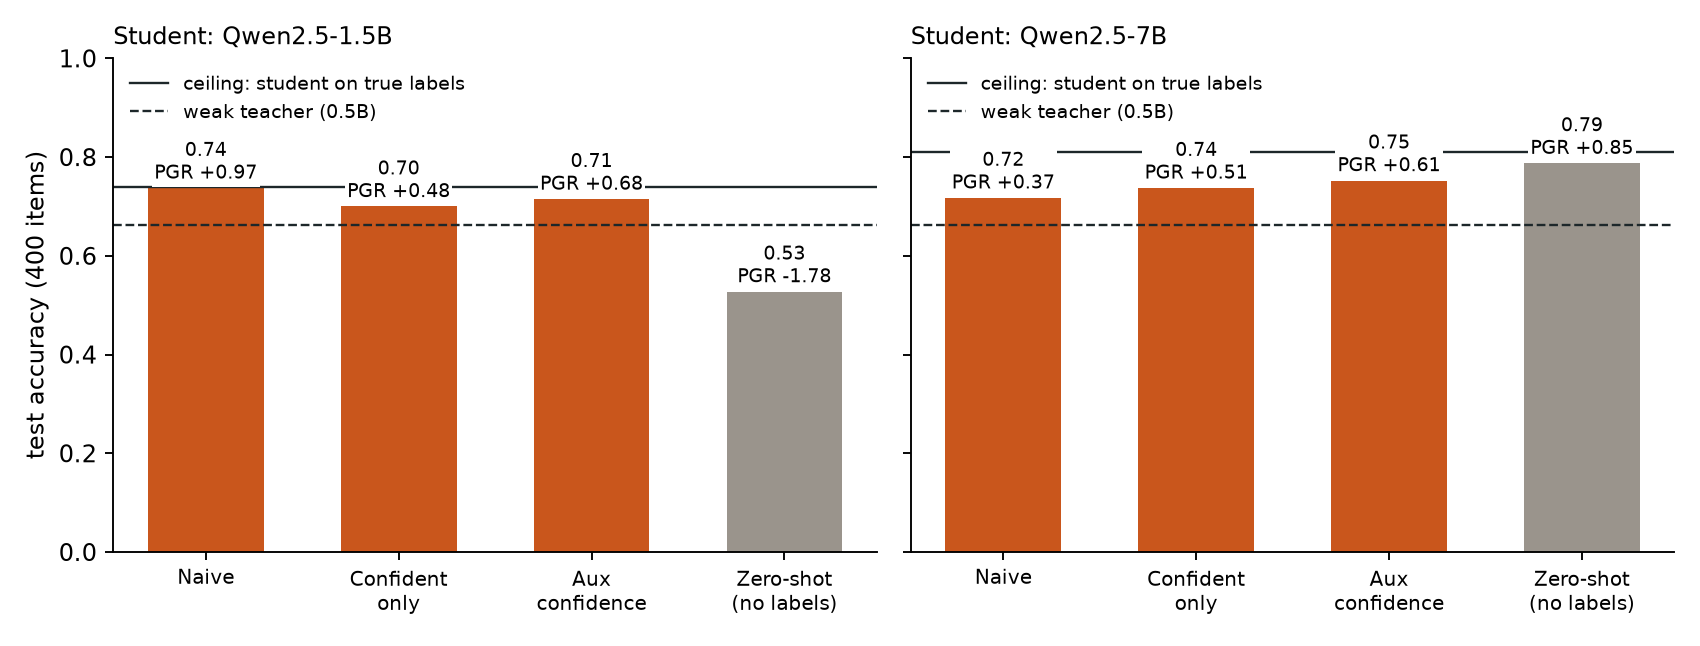
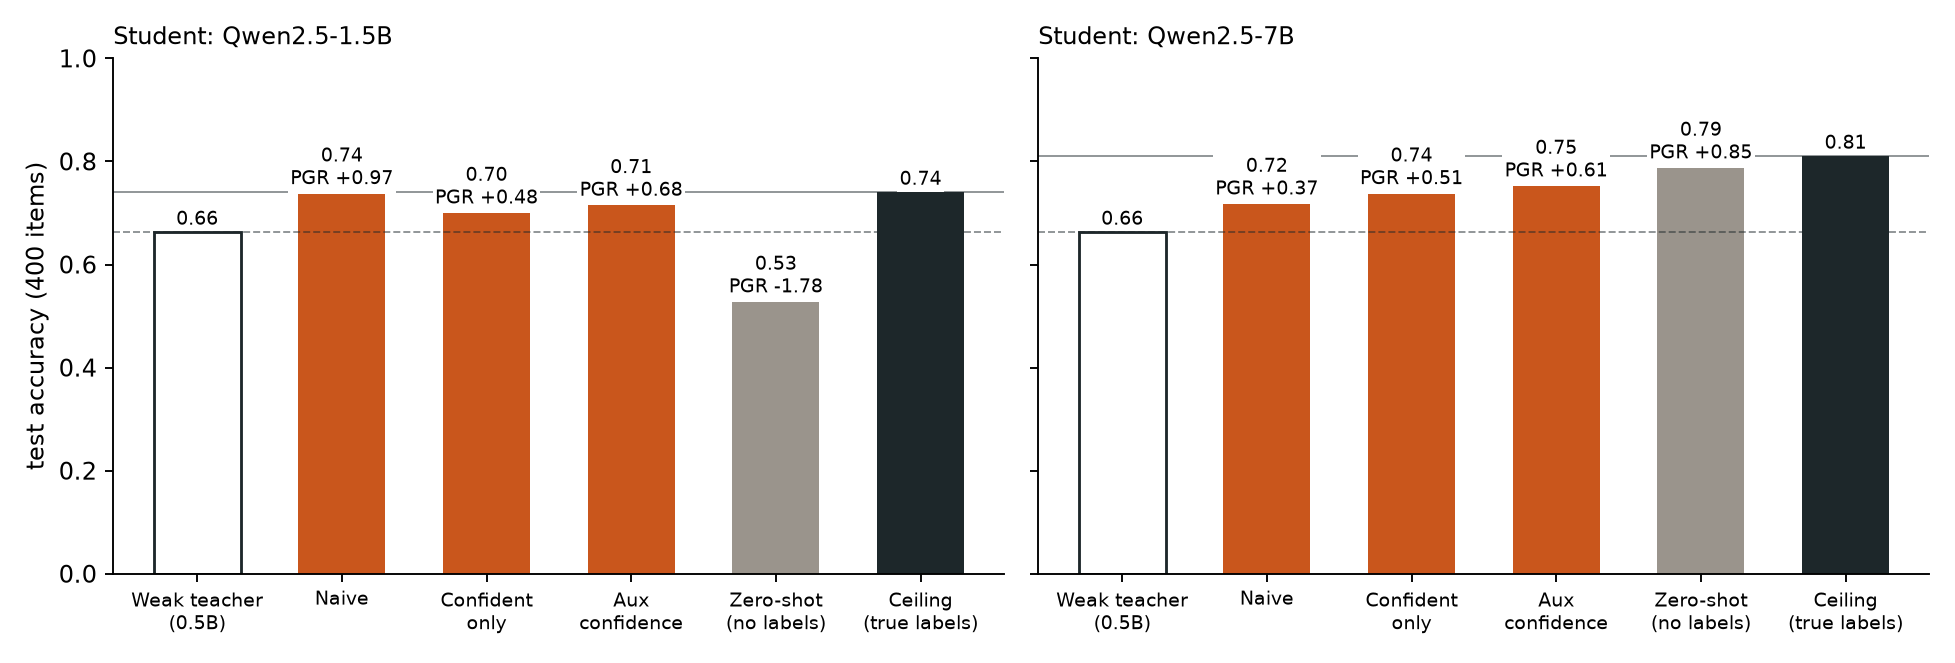
Scalable oversight 101: Figure 2 shows the weak teacher and the ceiling as labelled bars

diff --git a/experiments/scalable-oversight-101/report/index.html b/experiments/scalable-oversight-101/report/index.html
@@ -245,8 +245,8 @@
   <h3 id="w2s" data-short="Weak-to-strong">4.1 A 7B student beats its 0.5B teacher, but its own zero-shot answer beats both</h3>
   <p>The teacher’s labels on student_train are 67.5% right, and the teacher scores 66.2% on test. Every way of training the 7B student on those labels ends above the teacher (Figure 2, right; Table 3): trusting all labels recovers 37% of the gap, keeping only the half the teacher is surest about 51%, and Burns et al.’s auxiliary confidence loss, which also lets the student trust its own hardened predictions, 61%. The order matches the 2023 paper. All three intervals are clear of 0, so criterion 1 is met.</p>
   <figure class="plot">
-    <img src="figures/w2s.png" alt="Two bar charts of test accuracy. Left, student Qwen2.5-1.5B: ceiling 0.74, weak teacher 0.66; naive 0.74, confident 0.70, auxiliary confidence 0.71, zero-shot 0.53. Right, student Qwen2.5-7B: ceiling 0.81, weak teacher 0.66; naive 0.72, confident 0.74, auxiliary confidence 0.75, zero-shot 0.79." width="1700" height="646" loading="lazy">
-    <figcaption><span class="label">Figure 2.</span> Test accuracy (400 items) of each way of learning from the 0.5B teacher’s labels, for a 1.5B and a 7B student, with the gap recovered above each bar. Solid line: the student trained on true labels; dashed: the teacher. Grey: zero-shot, which uses no labels. Drawn by <a href="../make_figures.py">make_figures.py</a> from <a href="../results/w2s.json">results/w2s.json</a>.</figcaption>
+    <img src="figures/w2s.png" alt="Two bar charts of test accuracy, each from the weak teacher to the ceiling. Left, student Qwen2.5-1.5B: weak teacher 0.66; naive 0.74, confident only 0.70, auxiliary confidence 0.71, zero-shot 0.53; ceiling 0.74. Right, student Qwen2.5-7B: weak teacher 0.66; naive 0.72, confident only 0.74, auxiliary confidence 0.75, zero-shot 0.79; ceiling 0.81." width="1955" height="663" loading="lazy">
+    <figcaption><span class="label">Figure 2.</span> Test accuracy (400 items) for a 1.5B and a 7B student, from the weak 0.5B teacher (white bar) through each way of learning from its labels (orange, with the gap recovered above each) and the student with no labels at all (grey, zero-shot) to the ceiling, the student trained on true labels (black). The dashed and solid lines repeat the teacher and the ceiling across each panel. Drawn by <a href="../make_figures.py">make_figures.py</a> from <a href="../results/w2s.json">results/w2s.json</a>.</figcaption>
   </figure>
   <div class="table-wrap">
     <table>

diff --git a/experiments/scalable-oversight-101/make_figures.py b/experiments/scalable-oversight-101/make_figures.py
@@ -28,26 +28,33 @@ EMBER, GREY, INK, SOFT = "#C9561C", "#9A948C", "#1d272a", "#586468"
 
 def w2s():
     data = json.loads((RESULTS / "w2s.json").read_text())
-    fig, axes = plt.subplots(1, 2, figsize=(10, 3.8), sharey=True)
+    fig, axes = plt.subplots(1, 2, figsize=(11.5, 3.9), sharey=True)
     names = ["naive", "confident", "aux", "zero-shot"]
-    labels = ["Naive", "Confident\nonly", "Aux\nconfidence", "Zero-shot\n(no labels)"]
+    labels = [
+        "Weak teacher\n(0.5B)",
+        "Naive",
+        "Confident\nonly",
+        "Aux\nconfidence",
+        "Zero-shot\n(no labels)",
+        "Ceiling\n(true labels)",
+    ]
+    teacher = data["teacher_test_acc"]
     for ax, student in zip(axes, ("1.5b", "7b"), strict=True):
         s = data["students"][student]
-        accs = [s["methods"][m]["test_acc"] for m in names]
-        print(
-            f"w2s {student}: ceiling {s['ceiling_test_acc']:.3f}, teacher {data['teacher_test_acc']:.3f},",
-            dict(zip(names, accs, strict=True)),
-        )
-        ax.bar(range(len(names)), accs, color=[EMBER if m != "zero-shot" else GREY for m in names], width=0.6)
-        for i, (m, a) in enumerate(zip(names, accs, strict=True)):
-            ax.text(i, a + 0.006, f"{a:.2f}\nPGR {s['methods'][m]['pgr']:+.2f}", ha="center", va="bottom", fontsize=8,
+        accs = [teacher, *[s["methods"][m]["test_acc"] for m in names], s["ceiling_test_acc"]]
+        print(f"w2s {student}: teacher {teacher:.3f}, ceiling {s['ceiling_test_acc']:.3f},",
+              dict(zip(names, accs[1:-1], strict=True)))  # fmt: skip
+        faces = ["white", EMBER, EMBER, EMBER, GREY, INK]
+        ax.bar(range(len(accs)), accs, color=faces, edgecolor=INK, linewidth=[1.2, 0, 0, 0, 0, 0], width=0.6)
+        for i, a in enumerate(accs):
+            note = f"\nPGR {s['methods'][names[i - 1]]['pgr']:+.2f}" if 0 < i < len(accs) - 1 else ""
+            ax.text(i, a + 0.006, f"{a:.2f}{note}", ha="center", va="bottom", fontsize=8,
                     bbox={"facecolor": "white", "edgecolor": "none", "pad": 1}, zorder=4)  # fmt: skip
-        ax.axhline(s["ceiling_test_acc"], color=INK, linewidth=1, label="ceiling: student on true labels")
-        ax.axhline(data["teacher_test_acc"], color=INK, linestyle="--", linewidth=1, label="weak teacher (0.5B)")
-        ax.set_xticks(range(len(names)), labels, fontsize=8.5)
+        ax.axhline(s["ceiling_test_acc"], color=INK, linewidth=0.8, alpha=0.5)
+        ax.axhline(teacher, color=INK, linestyle="--", linewidth=0.8, alpha=0.5)
+        ax.set_xticks(range(len(accs)), labels, fontsize=8)
         ax.set_title(f"Student: Qwen2.5-{student.upper()}", loc="left", fontsize=10)
         ax.set_ylim(0, 1.0)
-        ax.legend(loc="upper left", fontsize=8, frameon=False)
         ax.spines[["top", "right"]].set_visible(False)
     axes[0].set_ylabel("test accuracy (400 items)")
     fig.tight_layout()
